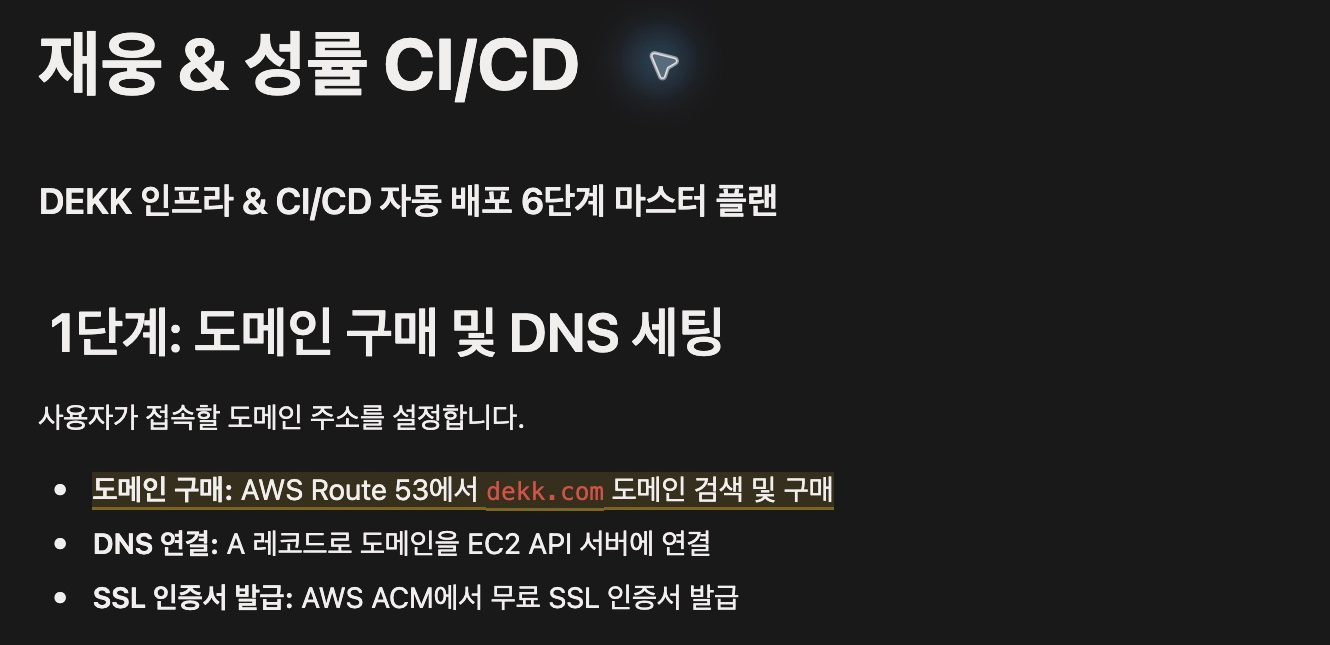
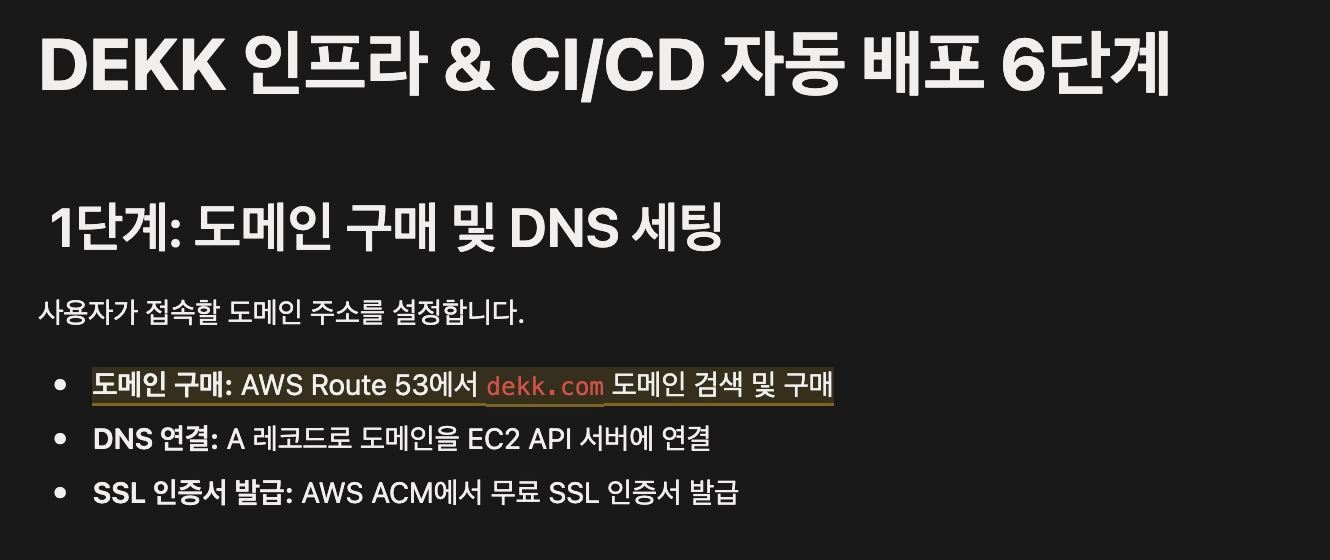
fix: 배포 기록 캡처의 마우스 표시 제거

diff --git a/src/evidence-viewer.js b/src/evidence-viewer.js
@@ -5,8 +5,9 @@
   const triggers = [...document.querySelectorAll('[data-evidence-open="dekk-deployment"]')];
   if (!triggers.length) return;
   const base = 'images/evidence/dekk-deployment/';
+  const captureUrl = (file) => base + file + '?v=20261008-clean';
   const captures = [
-    {file: 'guide.webp', title: '배포 가이드', width: 1330, alt: '노션 재웅 & 성률 CI/CD 문서 제목과 자동 배포 가이드의 도메인·DNS 설정 단계'},
+    {file: 'guide.webp', title: '배포 가이드', width: 1330, alt: '노션 DEKK 인프라 & CI/CD 자동 배포 6단계 문서 제목과 도메인·DNS 설정 단계'},
     {file: 'dns-records.webp', title: '도메인·DNS', width: 1900, alt: '도메인 구매, Route 53, 네임서버 설정 절차와 Sung Ryul Cho의 3월 3일 완료 댓글'},
     {file: 'network-records.webp', title: '인증서·ALB', width: 1900, alt: 'SSL 인증서, ALB, 보안 그룹 설정 절차와 Sung Ryul Cho의 3월 3일 완료 댓글'},
     {file: 'server-setup.webp', title: '서버 환경 설정', width: 1900, alt: 'Java와 CodeDeploy Agent 설치 가이드 및 재웅 정의 3월 3일 작업 완료 댓글'},
@@ -38,7 +39,7 @@
     error.hidden = true;
     image.hidden = false;
     image.alt = capture.alt;
-    image.src = base + capture.file;
+    image.src = captureUrl(capture.file);
     stage.style.setProperty('--capture-width', capture.width + 'px');
     caption.textContent = capture.title + ' · ' + (index + 1) + ' / ' + captures.length;
     setZoom(false);
@@ -58,7 +59,7 @@
       button.setAttribute('aria-label', capture.title + ' 캡처 보기');
       button.setAttribute('aria-pressed', 'false');
       const preview = document.createElement('img');
-      preview.src = base + capture.file;
+      preview.src = captureUrl(capture.file);
       preview.alt = '';
       preview.width = 160;
       preview.height = 56;

diff --git a/index.html b/index.html
@@ -31,7 +31,7 @@
   <script src="src/projects.js?v=20260927" defer></script>
   <script src="src/project-gallery.js?v=20260930-autoplay-3s" defer></script>
     <script src="src/project-dialog.js?v=20261007-header-bottom" defer></script>
-  <script src="src/evidence-viewer.js?v=20261008" defer></script>
+  <script src="src/evidence-viewer.js?v=20261008-clean" defer></script>
   <script src="src/active_menu.js?v=20260927" defer></script>
 </head>
 <body>
